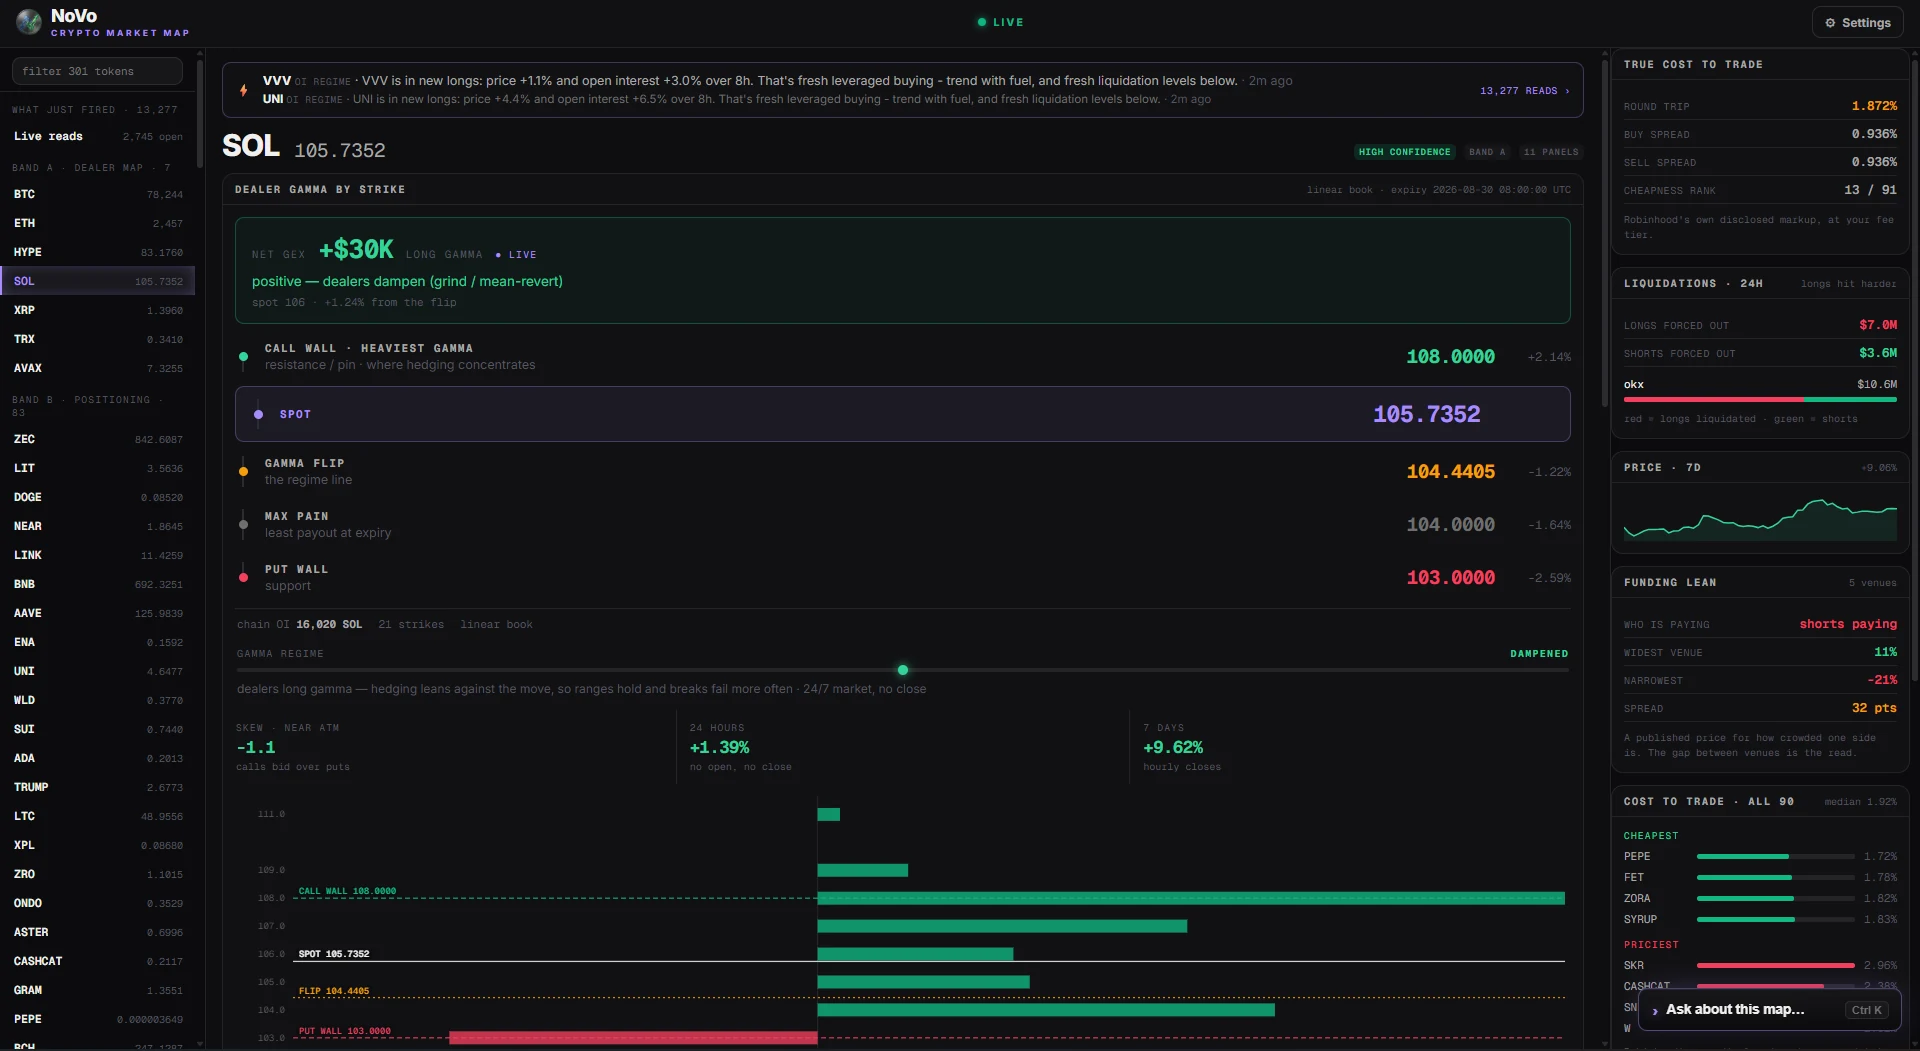
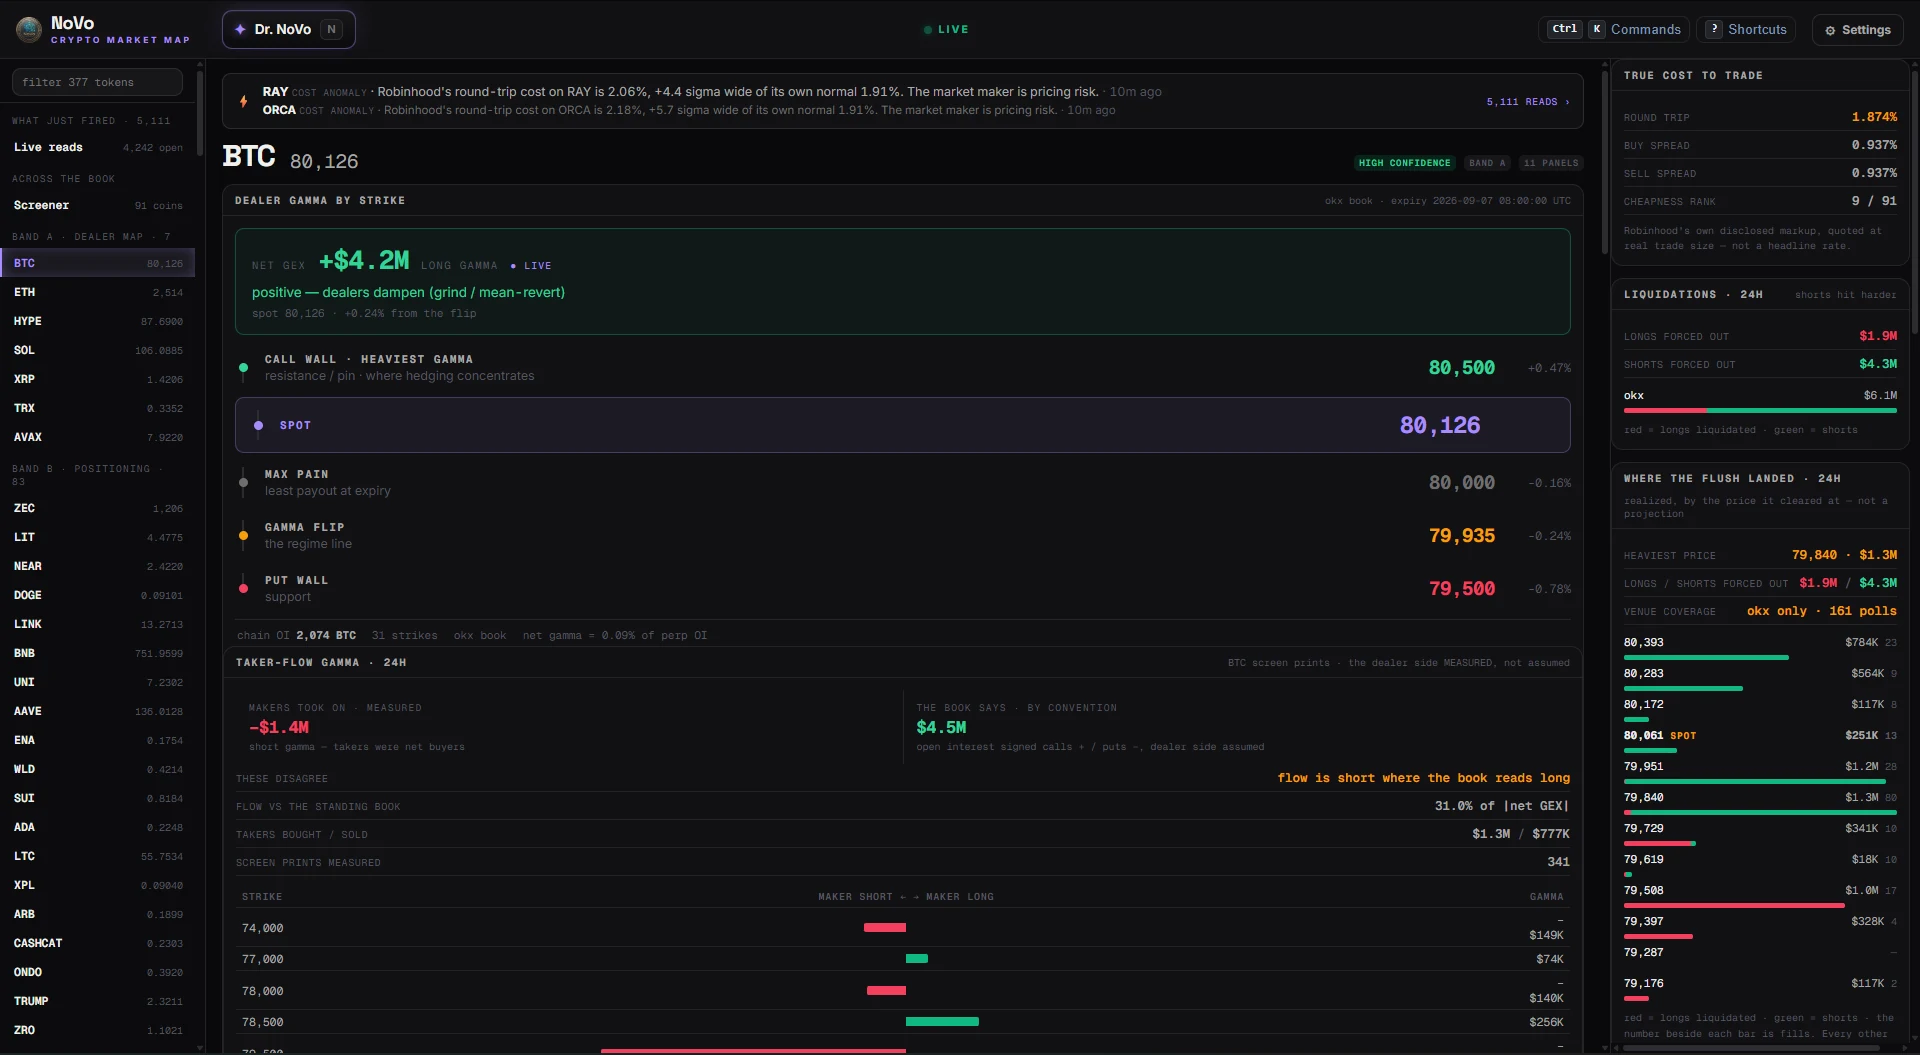
/crypto hero screenshot: Jake's new full-UI capture
Jake sent a new full-UI shot of the Crypto Market Map. The published hero capture
predated several shipped changes, so the page was selling an older product:

  header       LIVE + Settings only  ->  Dr. NoVo button, Ctrl-K Commands, Shortcuts
  filter       301 tokens            ->  377 tokens
  left rail    (none)                ->  Across the book / Screener - 91 coins
  right rail   Price 7D, Funding lean -> Where the flush landed - 24H
  main         (none)                ->  Taker-flow gamma - 24H, makers vs the book

Converted to WebP at q88 (107,614 bytes against the old 108,208, so the page
weight is unchanged) at its native 1920x1055.

?v=1 -> ?v=2, and height 1051 -> 1055 to match the new capture. The version bump
is not optional: vercel.json serves every image immutable for a year, so reusing
the filename without it would leave the old shot on every device and edge node
that had already fetched it.

ALT TEXT REWRITTEN, because it described the OLD capture in detail -- "on SOL ...
the 7-day price and the funding lean across five venues" -- none of which is in
the new one. It now describes what is actually on screen: BTC, the wall/spot/max
pain/flip/put ladder, taker-flow gamma setting what makers took on against what
the standing book says, true cost to trade, 24-hour liquidations, and where the
flush landed.

The page's COPY was already current -- it names taker-flow (4x), where the flush
[…]

diff --git a/public/crypto.html b/public/crypto.html
@@ -707,7 +707,7 @@ height="0" width="0" style="display:none;visibility:hidden"></iframe></noscript>
 
 
     <div class="hero-mashup">
-      <div class="hm-back"><img src="/screenshots/crypto-map-desk.webp?v=1" width="1920" height="1051" alt="The Crypto Market Map &mdash; dealer gamma by strike on SOL with the call wall, spot, gamma flip, max pain and put wall, the gamma regime and the strike ladder, beside what a round trip actually costs, 24-hour liquidations, the 7-day price and the funding lean across five venues" loading="lazy" decoding="async"></div>
+      <div class="hm-back"><img src="/screenshots/crypto-map-desk.webp?v=2" width="1920" height="1055" alt="The Crypto Market Map &mdash; dealer gamma by strike on BTC with the call wall, spot, max pain, gamma flip and put wall, and taker-flow gamma setting what makers actually took on against what the standing book says, beside what a round trip actually costs, 24-hour liquidations and where the flush landed" loading="lazy" decoding="async"></div>
       <div class="hm-fan">
         <div class="hm-card" style="transform:rotate(-13deg);z-index:4;"><img src="/screenshots/crypto-map-dealer.webp?v=1" width="498" height="1047" alt="The Crypto Market Map on a phone &mdash; XRP dealer gamma by strike with net GEX, the call wall, spot, gamma flip and put wall" loading="lazy" decoding="async"></div>
         <div class="hm-card" style="transform:rotate(-4deg) translateY(14px);z-index:3;margin-left:-48px;"><img src="/screenshots/crypto-map-history.webp?v=1" width="500" height="1049" alt="The Crypto Market Map on a phone &mdash; this setup historically, with the sample size on every line, and the term structure across thirteen expiries" loading="lazy" decoding="async"></div>
